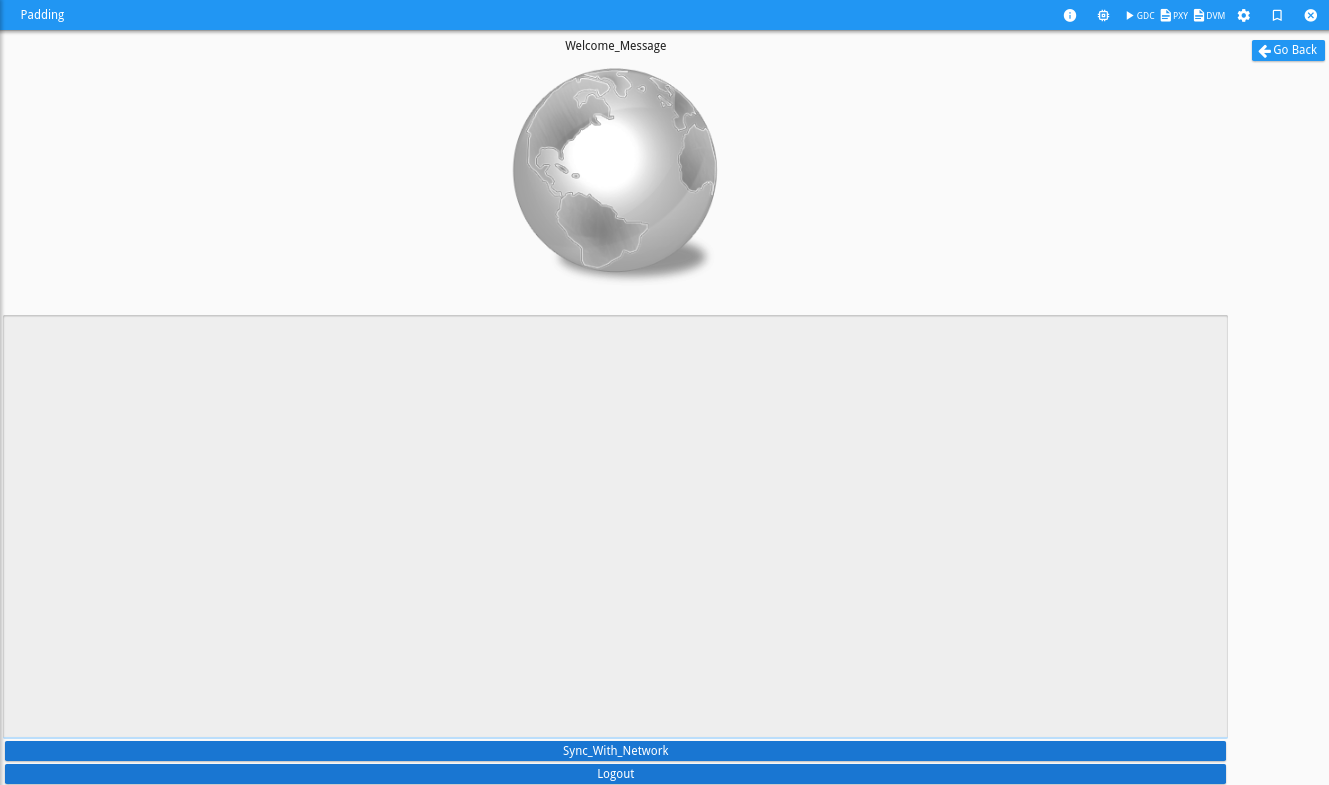
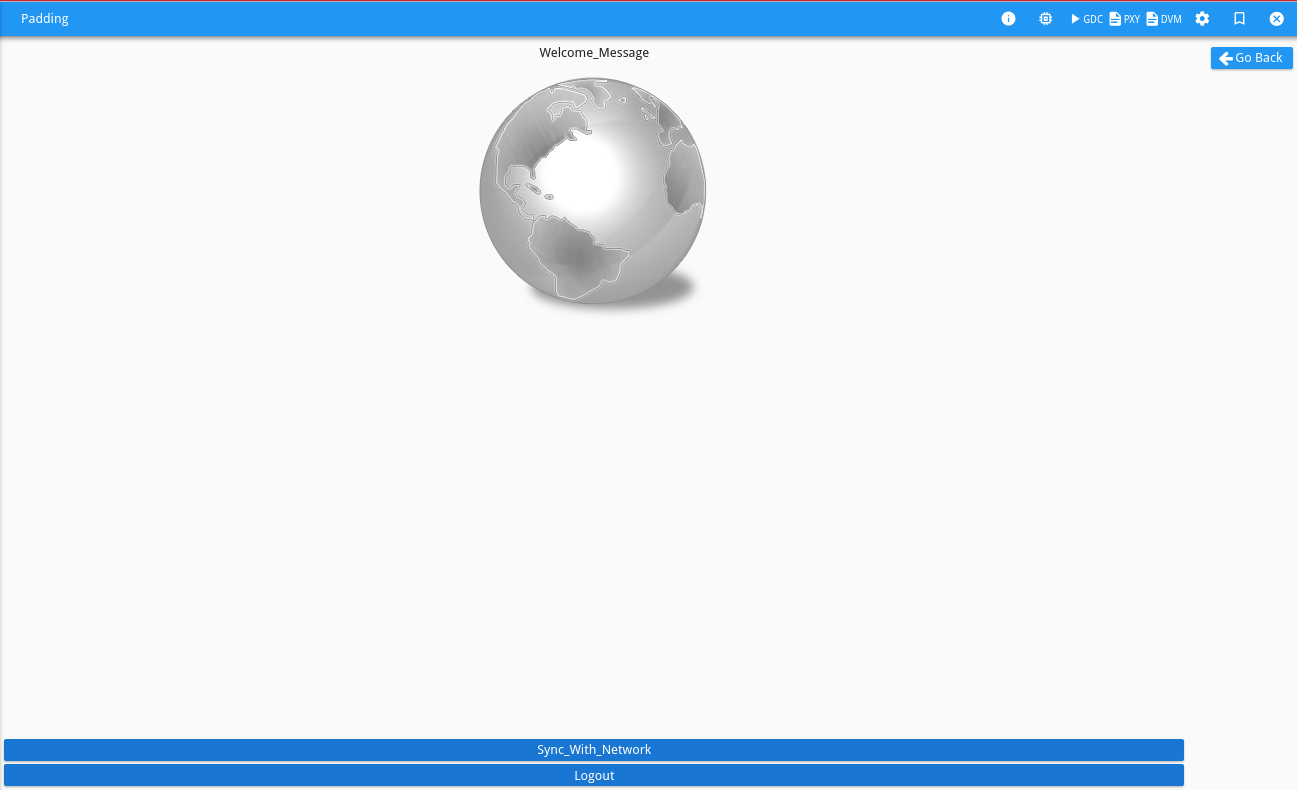
to the right

Changed region(s): [[0.0, 0.0, 1.0, 0.3975], [0.0, 0.9172, 0.9252, 1.0], [0.5243, 0.1529, 0.5551, 0.1834]]

diff --git a/README.md b/README.md
@@ -17,10 +17,9 @@ A title area with a logo, title and date. The text should be centered the image 
 ![scr1](https://github.com/neilm-fourjs/layout_tests/raw/master/screenshots/layouts_2_title_gma.png "Title GMA")
 
 ## Right
-An icon and date to the right of the screen and a title centered.
+An icon and date to the right of the screen and a title to the left.
 
 ![scr1](https://github.com/neilm-fourjs/layout_tests/raw/master/screenshots/layouts_3_right_gbc.png "Right GBC")
-![scr1](https://github.com/neilm-fourjs/layout_tests/raw/master/screenshots/layouts_3_right_gdc2.png "Right GDC")
 ![scr1](https://github.com/neilm-fourjs/layout_tests/raw/master/screenshots/layouts_3_right_gdc.png "Right GDC")
 ![scr1](https://github.com/neilm-fourjs/layout_tests/raw/master/screenshots/layouts_3_right_gma2.png "Right GMA")
 ![scr1](https://github.com/neilm-fourjs/layout_tests/raw/master/screenshots/layouts_3_right_gma.png "Right GMA")
@@ -37,3 +36,4 @@ Various icons and text tests in a a single form.
 Add paddng elements to the form to force buttons to the bottom of the screen.
 ![scr1](https://github.com/neilm-fourjs/layout_tests/raw/master/screenshots/layouts_5_padding_gbc.png "Padding GBC")
 ![scr1](https://github.com/neilm-fourjs/layout_tests/raw/master/screenshots/layouts_5_padding_gdc.png "Padding GDC")
+![scr1](https://github.com/neilm-fourjs/layout_tests/raw/master/screenshots/layouts_5_padding_gma.png "Padding GMA")
